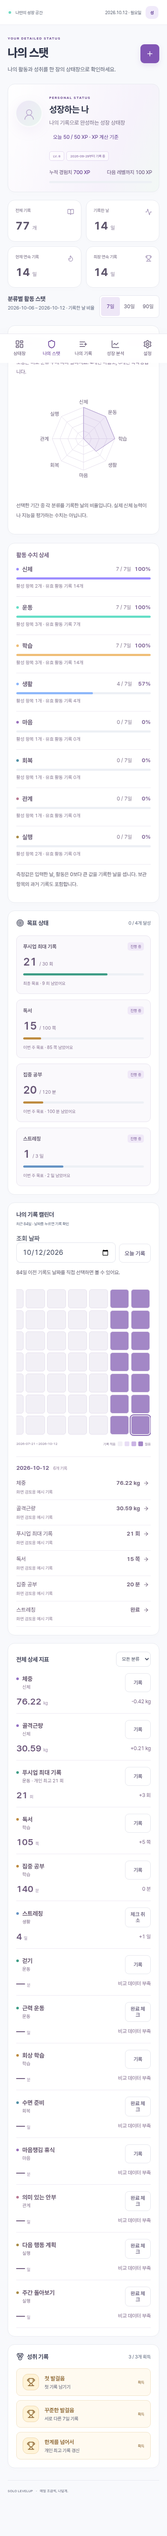
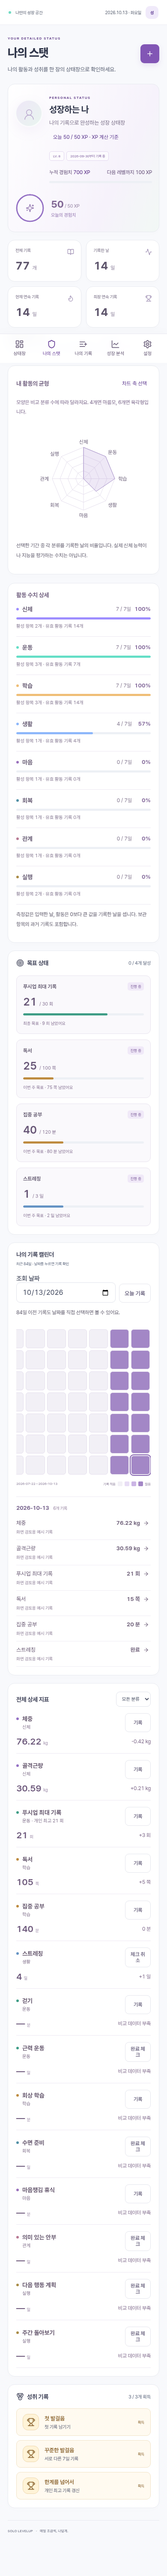
Polish light dashboard with SVG artwork and daily XP ring

diff --git a/app/growth-art.tsx b/app/growth-art.tsx
@@ -1,0 +1,80 @@
+/** Decorative vectors stay local, crisp at any pixel density, and out of the accessibility tree. */
+export function GrowthBackdrop() {
+  return (
+    <svg
+      className="growth-backdrop"
+      viewBox="0 0 1000 360"
+      preserveAspectRatio="xMaxYMid slice"
+      aria-hidden="true"
+      focusable="false"
+    >
+      <g fill="none" stroke="#aa92ca" strokeWidth="1">
+        <ellipse
+          cx="845"
+          cy="175"
+          rx="205"
+          ry="138"
+          transform="rotate(-28 845 175)"
+          opacity=".22"
+        />
+        <ellipse
+          cx="845"
+          cy="175"
+          rx="243"
+          ry="170"
+          transform="rotate(-28 845 175)"
+          opacity=".13"
+        />
+        <path
+          d="M360 360C535 240 655 390 790 255S930 90 1040 110"
+          opacity=".25"
+        />
+        <path
+          d="M440 380C605 265 700 405 840 270S975 120 1080 135"
+          opacity=".14"
+        />
+      </g>
+      <g fill="#fff" opacity=".85">
+        <path d="m697 57 3 9 9 3-9 3-3 9-3-9-9-3 9-3Z" />
+        <path d="m938 260 4 12 12 4-12 4-4 12-4-12-12-4 12-4Z" />
+      </g>
+      <circle cx="675" cy="245" r="5" fill="#b9dbcc" />
+      <circle cx="938" cy="83" r="4" fill="#c2acd9" />
+      <circle cx="575" cy="315" r="3" fill="#c2acd9" opacity=".5" />
+    </svg>
+  );
+}
+
+export function XpRing({ value, max }: { value: number; max: number }) {
+  const progress = max > 0 ? Math.min(1, Math.max(0, value / max)) : 0;
+  return (
+    <svg
+      className="xp-ring"
+      viewBox="0 0 120 120"
+      aria-hidden="true"
+      focusable="false"
+    >
+      <circle
+        cx="60"
+        cy="60"
+        r="53"
+        fill="none"
+        stroke="#eee8f5"
+        strokeWidth="5"
+      />
+      <circle
+        cx="60"
+        cy="60"
+        r="53"
+        fill="none"
+        stroke="#9470c4"
+        strokeWidth="5"
+        pathLength="100"
+        strokeDasharray={`${progress * 100} 100`}
+        strokeLinecap={progress ? "round" : "butt"}
+        transform="rotate(-90 60 60)"
+      />
+      <circle cx="60" cy="7" r="3" fill="#9470c4" />
+    </svg>
+  );
+}

diff --git a/app/globals.css b/app/globals.css
@@ -3847,3 +3847,80 @@ textarea {
     display: none;
   }
 }
+
+/* Local SVG artwork: no image downloads, animation, or interaction layer. */
+.hero .growth-backdrop {
+  position: absolute;
+  inset: 0;
+  width: 100%;
+  height: 100%;
+  pointer-events: none;
+}
+.hero:after {
+  display: none;
+}
+.hero .photo-frame {
+  border-radius: 50%;
+  outline: 1px solid #bca9d44d;
+  outline-offset: 8px;
+}
+.stat-today-xp {
+  position: relative;
+  width: 144px;
+  height: 144px;
+  justify-content: center;
+  gap: 5px;
+}
+.stat-today-xp .xp-ring {
+  position: absolute;
+  inset: 0;
+  width: 100%;
+  height: 100%;
+  pointer-events: none;
+}
+.stat-today-xp > .lucide {
+  width: 17px;
+  height: 17px;
+}
+.stat-today-xp strong {
+  font-size: 25px;
+}
+@media (max-width: 1000px) {
+  .stat-profile {
+    flex-wrap: wrap;
+  }
+  .stat-today-xp {
+    display: flex;
+    width: 120px;
+    height: 120px;
+    margin: 8px auto 0;
+  }
+}
+@media (max-width: 720px) {
+  .hero .growth-backdrop {
+    opacity: 0.65;
+  }
+  .hero .photo-frame {
+    outline-offset: 5px;
+  }
+  .stat-today-xp {
+    flex-basis: 100%;
+    height: 70px;
+    padding-left: 84px;
+    align-items: flex-start;
+  }
+  .stat-today-xp .xp-ring {
+    width: 70px;
+    height: 70px;
+  }
+  .stat-today-xp > .lucide {
+    position: absolute;
+    left: 25px;
+    top: 25px;
+    width: 20px;
+    height: 20px;
+  }
+  .stat-today-xp strong {
+    font-size: 23px;
+  }
+}

diff --git a/app/dashboard.tsx b/app/dashboard.tsx
@@ -1,4 +1,5 @@
 "use client";
+import { GrowthBackdrop } from "./growth-art";
 import { useEffect, useRef, useState } from "react";
 import {
   Activity,
@@ -688,6 +689,7 @@ export default function Dashboard() {
           {tab === "home" && (
             <>
               <section className="hero">
+                <GrowthBackdrop />
                 <div className="hero-copy">
                   <div className="pill">
                     <span /> 오늘의 성장

diff --git a/app/stats.tsx b/app/stats.tsx
@@ -1,4 +1,5 @@
 "use client";
+import { XpRing } from "./growth-art";
 import { useEffect, useRef, useState } from "react";
 import {
   Activity,
@@ -120,6 +121,7 @@ export function StatsPage({
           </div>
         </div>
         <div className="stat-today-xp">
+          <XpRing value={summary.todayXp} max={XP_RULES.dailyCap} />
           <Sparkles size={22} />
           <strong>
             {summary.todayXp}

diff --git a/docs/SVG-DESIGN.md b/docs/SVG-DESIGN.md
@@ -1,0 +1,7 @@
+# SVG 디자인 개선 · 2026-10-13
+
+밝은 홈 카드에 곡선 궤도와 별빛을 직접 그린 SVG로 추가하고, 사진 테두리를 정리했다. 나의 스탯에는 오늘 XP / 하루 최대 XP에 비례하는 원형 게이지를 넣었다. 모바일에서는 게이지와 숫자를 나란히 배치한다.
+
+SVG는 외부 이미지 요청 없이 렌더링하며 장식은 aria-hidden, focusable=false와 pointer-events:none을 적용한다. 텍스트로도 경험치를 그대로 제공한다. 애니메이션은 없다.
+
+검증: 프로덕션 빌드, TypeScript, 기존 브라우저 테스트 19개 통과. 모바일 360/393/412px 및 가로 900px 화면, 사진 업로드, 기록 수정, 날짜별 조회, 백업, 오프라인 동작을 포함한다. Android 기기 실측이 아닌 Chromium 모바일 에뮬레이션이다.
